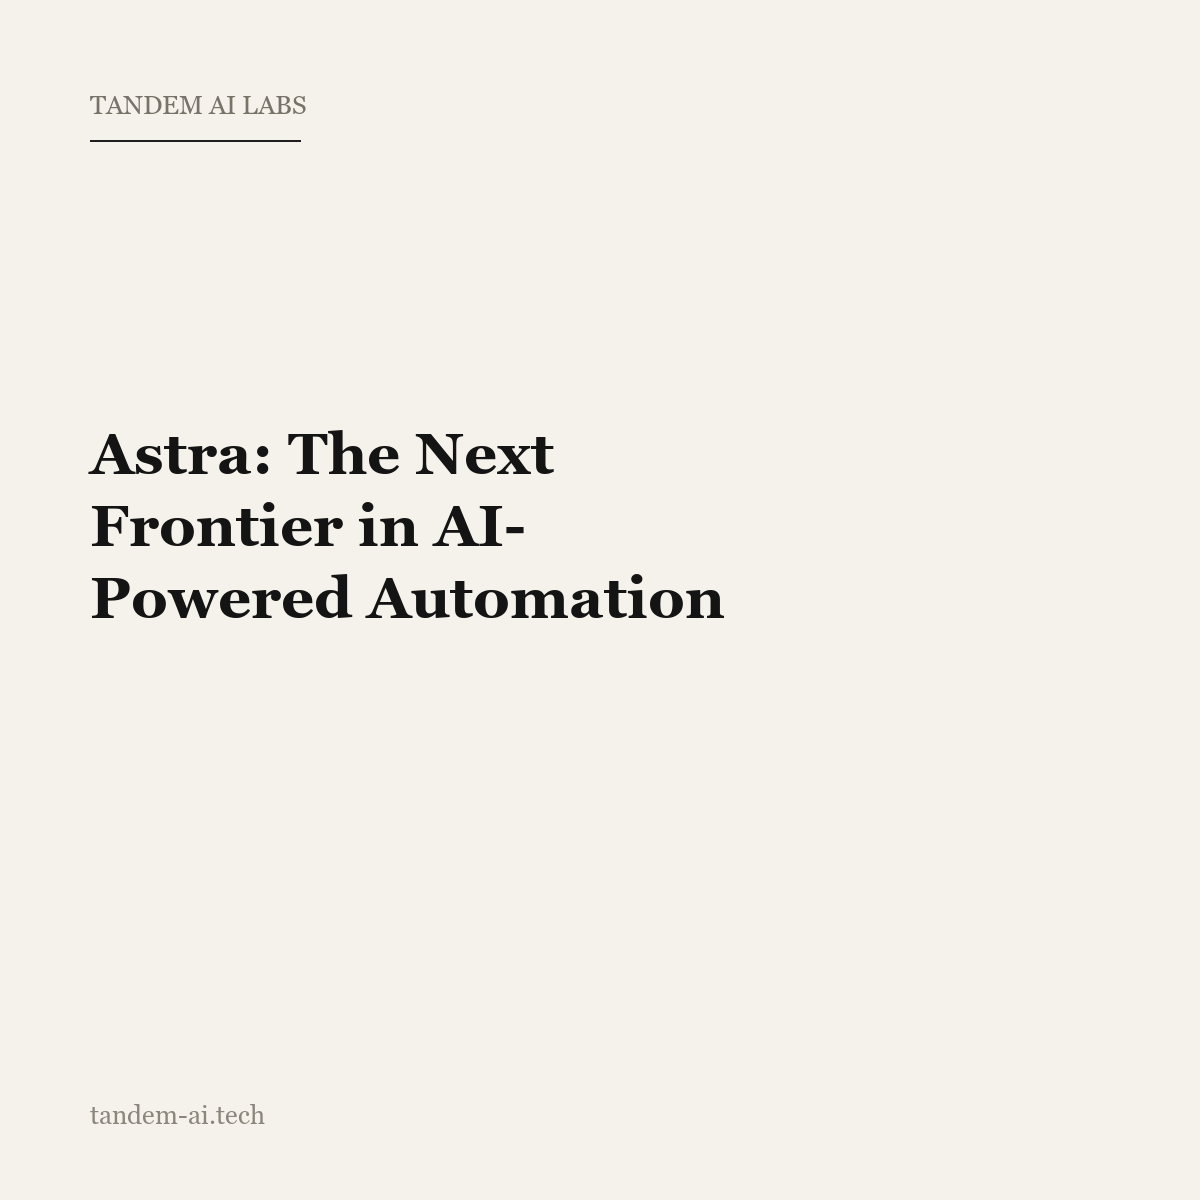
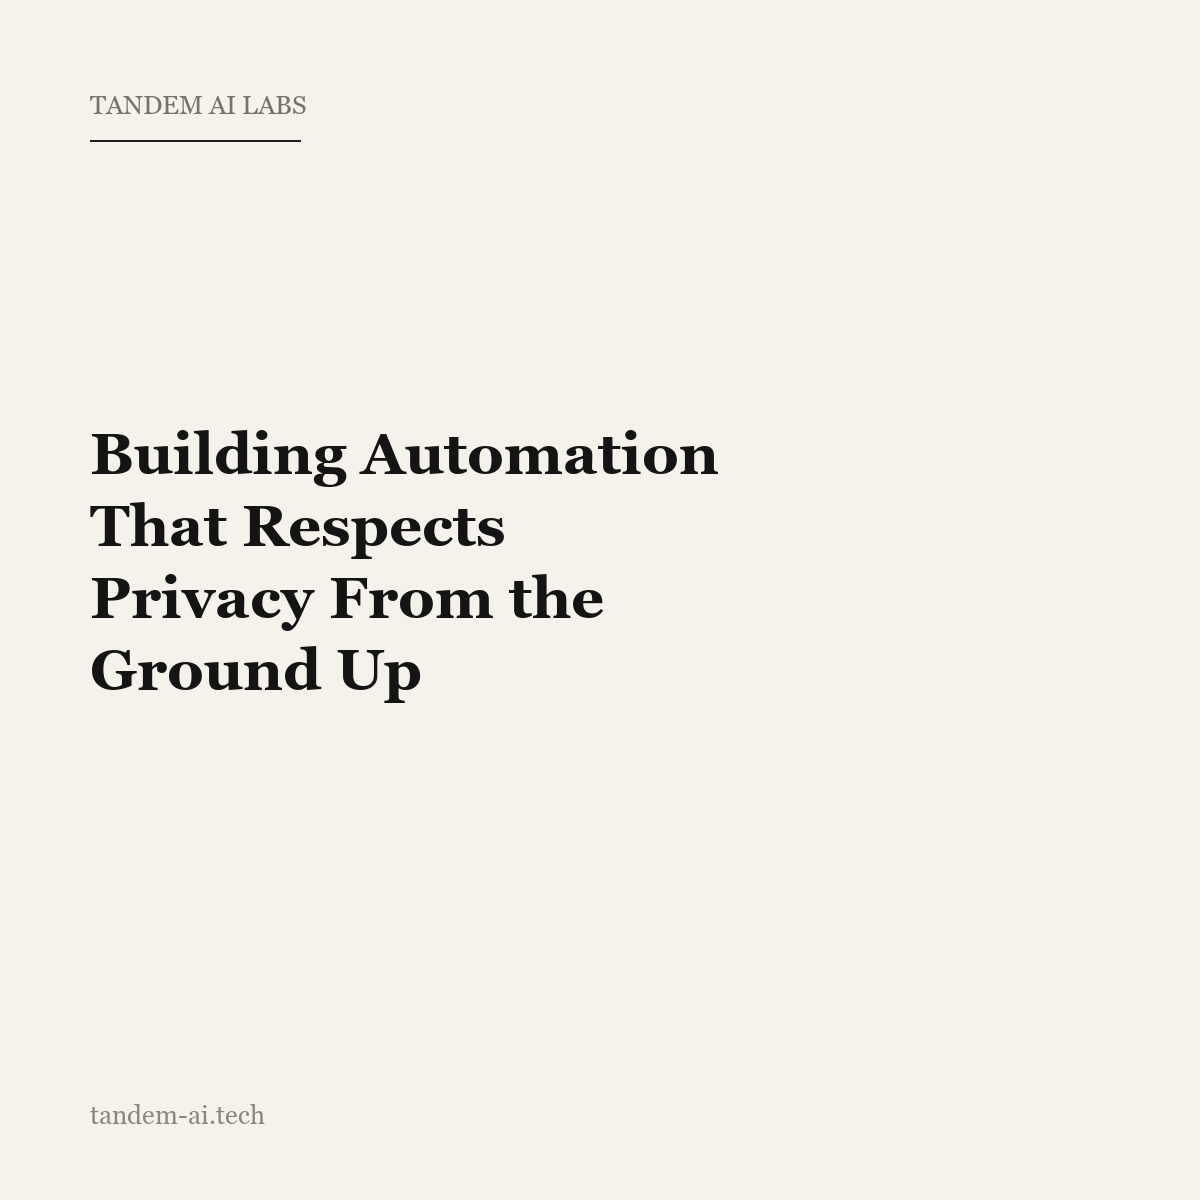
Application ready

Changed region(s): [[0.0617, 0.3392, 0.6167, 0.5858]]

diff --git a/main.py b/main.py
@@ -1,39 +1,129 @@
-"""
-Entry point — runs the full flow end to end:
-agent finds trending topics -> HITL topic/tone selection -> generate post -> HITL approval -> publish
-"""
+import base64
+from pathlib import Path
+from typing import Optional
+
+from fastapi import FastAPI, HTTPException
+from pydantic import BaseModel
 
 from core.agent import get_trending_topics
 from core.content_gen import generate_post
 from core.image_gen import generate_poster
-from PIL import Image
 from platforms.linkedin.publisher import publish_to_linkedin
+from platforms.discord.text_gen import generate_Discord_message
+from platforms.discord.publisher import build_discord_payload
+import requests
+import os
 
+app = FastAPI()
+
+DISCORD_MAKE_URL = os.getenv("DISCORD_MAKE_URL", "")
+
+
+# ---------- request/response models ----------
+
+class GenerateRequest(BaseModel):
+    topic: str
+    tone: str = "direct"
+
+
+class LinkedInGenerateResponse(BaseModel):
+    caption: str
+    poster_base64: str  # PNG bytes, base64-encoded — decode client-side
+
+
+class DiscordGenerateResponse(BaseModel):
+    title: str
+    description: str
+
+
+class LinkedInPublishRequest(BaseModel):
+    caption: str
+    poster_base64: str
+
+
+class DiscordPublishRequest(BaseModel):
+    title: str
+    description: str
+
+
+# ---------- trending topics (for the UI's topic picker) ----------
+
+@app.get("/topics")
+def topics():
+    return {"topics": get_trending_topics()}
+
+
+# ---------- LinkedIn: generate, then publish ----------
+
+@app.post("/generate/linkedin", response_model=LinkedInGenerateResponse)
+def generate_linkedin(request: GenerateRequest):
+    result = generate_post(topic=request.topic, tone=request.tone)
+    poster_path = generate_poster(headline=result["poster_headline"])
+
+    poster_bytes = Path(poster_path).read_bytes()
+    poster_b64 = base64.b64encode(poster_bytes).decode("utf-8")
+
+    return LinkedInGenerateResponse(caption=result["caption"], poster_base64=poster_b64)
+
+
+@app.post("/publish/linkedin")
+def publish_linkedin(request: LinkedInPublishRequest):
+    # publish_to_linkedin expects a file path, so write the (possibly
+    # user-edited) approved poster back to a temp file before publishing
+    poster_bytes = base64.b64decode(request.poster_base64)
+    temp_path = Path("temp_poster_to_publish.png")
+    temp_path.write_bytes(poster_bytes)
+
+    success = publish_to_linkedin(request.caption, str(temp_path))
+    if not success:
+        raise HTTPException(status_code=500, detail="LinkedIn publish failed")
+    return {"status": "published"}
+
+
+# ---------- Discord: generate, then publish ----------
+
+@app.post("/generate/discord", response_model=DiscordGenerateResponse)
+def generate_discord(request: GenerateRequest):
+    reply = generate_Discord_message(request.topic)
+    return DiscordGenerateResponse(title=reply["title"], description=reply["description"])
+
+
+@app.post("/publish/discord")
+def publish_discord_route(request: DiscordPublishRequest):
+    if not DISCORD_MAKE_URL:
+        raise HTTPException(status_code=500, detail="DISCORD_MAKE_URL not configured")
+
+    payload = build_discord_payload(request.model_dump())
+    response = requests.post(DISCORD_MAKE_URL, json=payload, timeout=10)
+    response.raise_for_status()
+    return {"status": "published"}
+
+
+# ---------- original interactive CLI, unchanged, still usable directly ----------
 
 def main():
     print("=" * 60)
     print("Checking today's trends (Hacker News + Reddit)...\n")
 
-    topics = get_trending_topics()
+    topics_list = get_trending_topics()
 
-    if not topics:
+    if not topics_list:
         print("No topics returned — check the agent's raw output above.")
         return
 
-    for i, t in enumerate(topics, 1):
+    for i, t in enumerate(topics_list, 1):
         print(f"{i}. [{t['source']}] {t['title']}")
         print(f"   {t['reason']}\n")
     print("=" * 60)
 
-    # --- HITL: pick a topic by number, or type your own ---
     choice = input(
         "\nEnter a number to pick a topic above, or type your own topic: "
     ).strip()
 
-    if choice.isdigit() and 1 <= int(choice) <= len(topics):
-        topic = topics[int(choice) - 1]["title"]
+    if choice.isdigit() and 1 <= int(choice) <= len(topics_list):
+        topic = topics_list[int(choice) - 1]["title"]
     else:
-        topic = choice  # user typed their own topic directly
+        topic = choice
 
     tone = input("What tone should the post have? (e.g. direct, playful, formal) ").strip()
 
@@ -50,10 +140,9 @@ def main():
     print("=" * 60)
     print(f"\nPoster saved to: {poster_path}")
 
-    # Open the poster so you can see it alongside the caption before approving
+    from PIL import Image
     Image.open(poster_path).show()
 
-    # --- HITL: final approval ---
     confirm = input("\nPost this to LinkedIn? (y/n) ").strip().lower()
 
     if confirm == "y":

diff --git a/app.py b/app.py
@@ -1,0 +1,117 @@
+"""
+Streamlit UI: pick a topic and tone, generate content for one or more
+platforms, preview it, then approve to actually publish. Mirrors the
+generate -> review -> publish HITL flow from the original CLI.
+"""
+
+import base64
+
+import requests
+import streamlit as st
+
+BACKEND_URL = "http://localhost:8000"  # change if your backend runs elsewhere
+
+st.set_page_config(page_title="Content Transformer", layout="centered")
+st.title("Automated Content Transformation")
+
+# session state holds whatever's been generated but not yet published
+if "linkedin_draft" not in st.session_state:
+    st.session_state.linkedin_draft = None
+if "discord_draft" not in st.session_state:
+    st.session_state.discord_draft = None
+
+# ---------- input ----------
+
+with st.expander("Trending topics", expanded=False):
+    if st.button("Fetch trending topics"):
+        resp = requests.get(f"{BACKEND_URL}/topics", timeout=15)
+        st.session_state.topics = resp.json().get("topics", [])
+    for t in st.session_state.get("topics", []):
+        st.markdown(f"**[{t['source']}]** {t['title']}  \n_{t['reason']}_")
+
+topic = st.text_input("Topic", placeholder="e.g. how transformer attention scales")
+tone = st.selectbox("Tone", ["direct", "playful", "formal"])
+platforms = st.multiselect("Platforms", ["linkedin", "discord"], default=["linkedin"])
+
+if st.button("Generate", type="primary", disabled=not topic):
+    if "linkedin" in platforms:
+        with st.spinner("Generating LinkedIn post..."):
+            resp = requests.post(
+                f"{BACKEND_URL}/generate/linkedin",
+                json={"topic": topic, "tone": tone},
+                timeout=60,
+            )
+            resp.raise_for_status()
+            st.session_state.linkedin_draft = resp.json()
+
+    if "discord" in platforms:
+        with st.spinner("Generating Discord post..."):
+            resp = requests.post(
+                f"{BACKEND_URL}/generate/discord",
+                json={"topic": topic, "tone": tone},
+                timeout=60,
+            )
+            resp.raise_for_status()
+            st.session_state.discord_draft = resp.json()
+
+st.divider()
+
+# ---------- LinkedIn preview + approve ----------
+
+if st.session_state.linkedin_draft:
+    st.subheader("LinkedIn — preview")
+    draft = st.session_state.linkedin_draft
+
+    poster_bytes = base64.b64decode(draft["poster_base64"])
+    st.image(poster_bytes, caption="Generated poster")
+
+    edited_caption = st.text_area("Caption (editable)", value=draft["caption"], height=150)
+
+    col1, col2 = st.columns(2)
+    with col1:
+        if st.button("Publish to LinkedIn", type="primary"):
+            with st.spinner("Publishing..."):
+                resp = requests.post(
+                    f"{BACKEND_URL}/publish/linkedin",
+                    json={"caption": edited_caption, "poster_base64": draft["poster_base64"]},
+                    timeout=30,
+                )
+            if resp.ok:
+                st.success("Published to LinkedIn.")
+                st.session_state.linkedin_draft = None
+            else:
+                st.error(f"Publish failed: {resp.text}")
+    with col2:
+        if st.button("Discard LinkedIn draft"):
+            st.session_state.linkedin_draft = None
+            st.rerun()
+
+# ---------- Discord preview + approve ----------
+
+if st.session_state.discord_draft:
+    st.subheader("Discord — preview")
+    draft = st.session_state.discord_draft
+
+    edited_title = st.text_input("Title (editable)", value=draft["title"])
+    edited_description = st.text_area("Description (editable)", value=draft["description"], height=100)
+
+    st.markdown(f"**Embed preview**\n\n> **{edited_title}**\n> \n> {edited_description}")
+
+    col1, col2 = st.columns(2)
+    with col1:
+        if st.button("Publish to Discord", type="primary"):
+            with st.spinner("Publishing..."):
+                resp = requests.post(
+                    f"{BACKEND_URL}/publish/discord",
+                    json={"title": edited_title, "description": edited_description},
+                    timeout=30,
+                )
+            if resp.ok:
+                st.success("Published to Discord.")
+                st.session_state.discord_draft = None
+            else:
+                st.error(f"Publish failed: {resp.text}")
+    with col2:
+        if st.button("Discard Discord draft"):
+            st.session_state.discord_draft = None
+            st.rerun()

diff --git a/platforms/discord/publisher.py b/platforms/discord/publisher.py
@@ -3,7 +3,7 @@ import os
 import requests
 from pydantic import BaseModel
 from fastapi import FastAPI
-from text_gen import Reply
+from platforms.discord.text_gen import Reply
 app=FastAPI()
 
 
@@ -13,7 +13,7 @@ def build_discord_payload(reply: dict) -> dict:
         "description": reply["description"],
     }
 @app.post('/publish')
-def publish(request: Reply):
+def publish_discord(request: Reply):
 
     response=requests.post(os.getenv('DISCORD_WEBHOOK_URL'),json=build_discord_payload(request.model_dump()))
     response.raise_for_status()

diff --git a/platforms/linkedin/pipeline.py b/platforms/linkedin/pipeline.py
@@ -1,0 +1,7 @@
+def run_linkedin_pipeline(topic: str, tone: str) -> dict:
+    result = generate_post(topic=topic, tone=tone)
+    poster_path = generate_poster(headline=result["poster_headline"])
+    return {
+        "caption": result["caption"],
+        "poster_path": poster_path,
+    }
